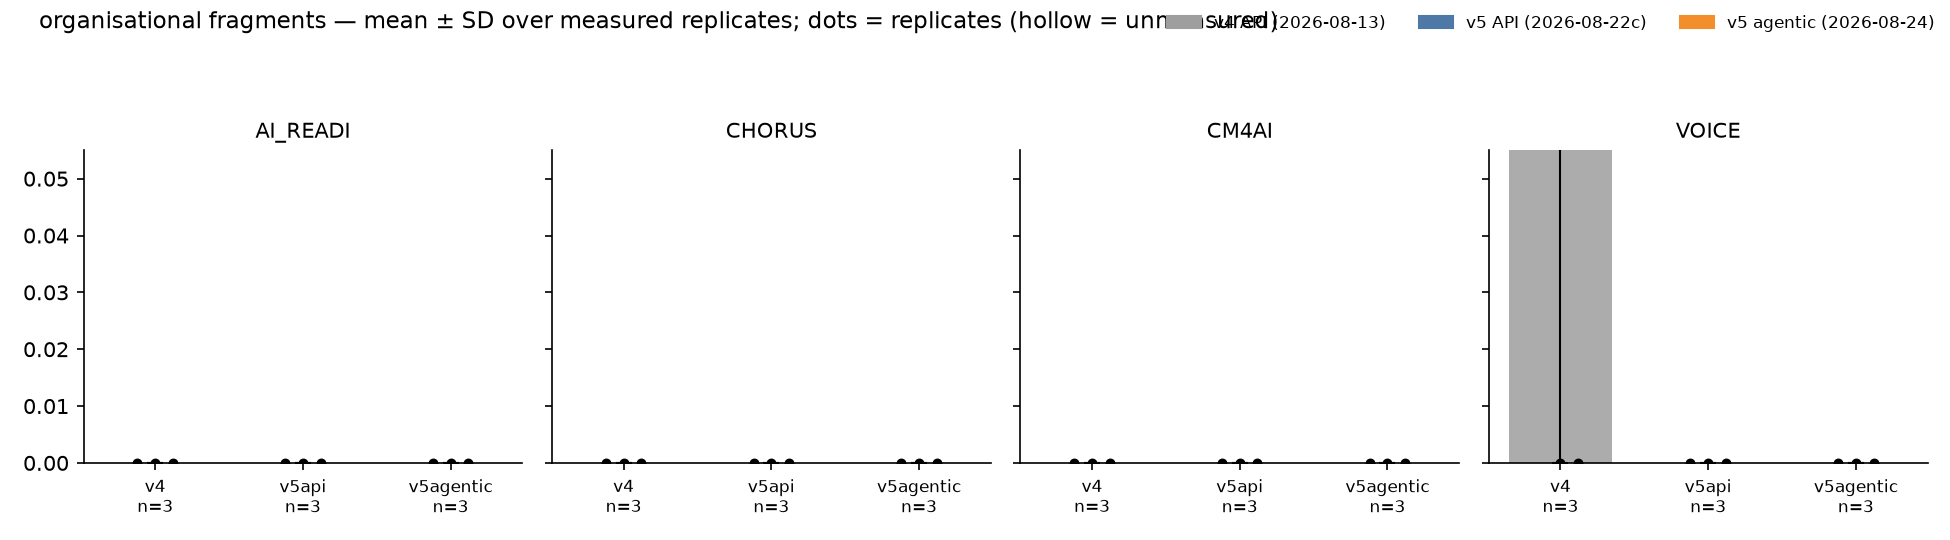
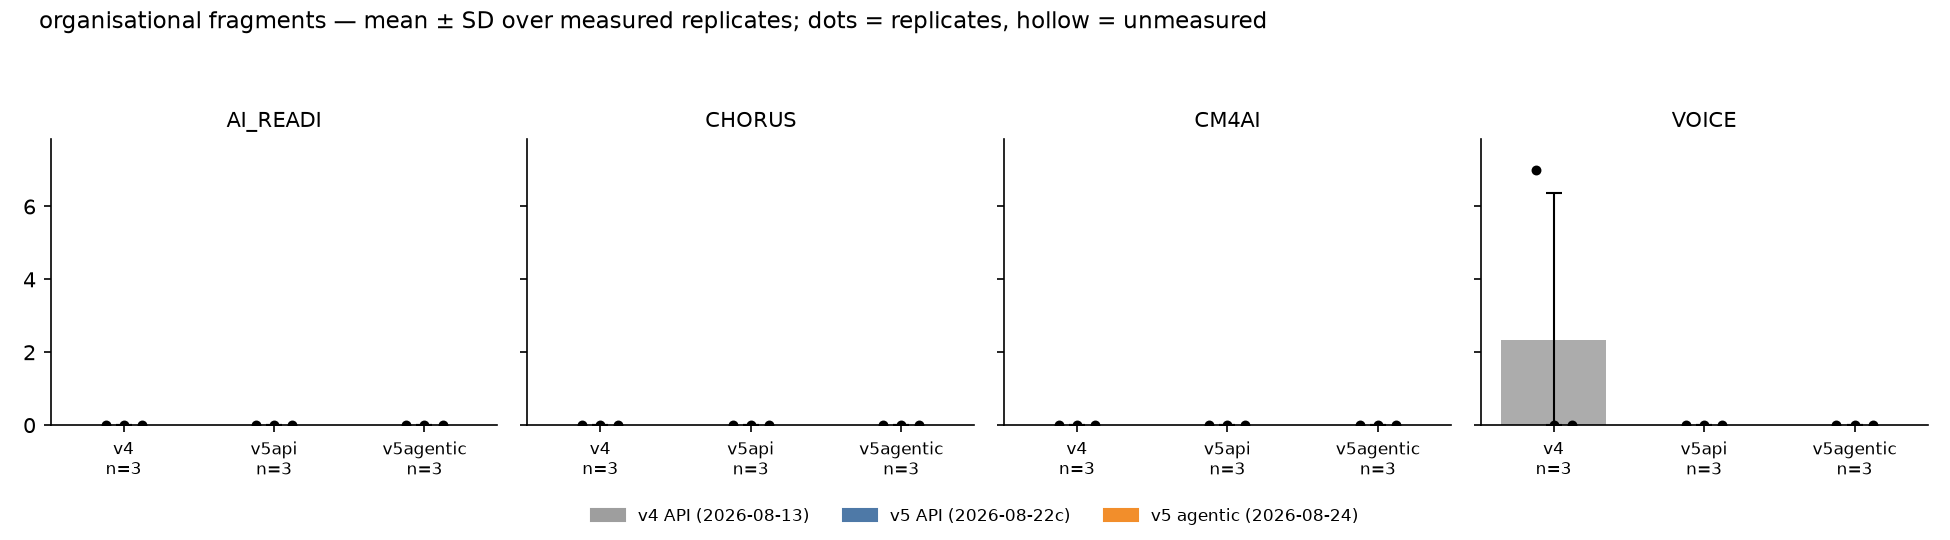
Figures: one shared y-range set after all panels are drawn; legend below the panels

diff --git a/scripts/arm_comparison.py b/scripts/arm_comparison.py
@@ -329,6 +329,7 @@ def write_figures(data, scores) -> None:
     # error bar = sample SD (n printed under the bar). Replicates are dots.
     for mk, (disp, _src, _hiw, _cav) in METRICS.items():
         fig, axes = plt.subplots(1, len(PROJECTS), figsize=(13, 3.6), sharey=True)
+        top = 0.0
         for ax, p in zip(axes, PROJECTS):
             ns: dict[int, int] = {}
             for i, (key, *_rest) in enumerate(ARMS):
@@ -336,6 +337,7 @@ def write_figures(data, scores) -> None:
                 st = stats(reps, mk)
                 if st is not None:
                     mean, sd, n = st
+                    top = max(top, mean + (sd if n > 1 else 0))
                     ax.bar(i, mean, color=colors[key], width=0.7, alpha=0.85)
                     # Counts cannot go below zero; the lower whisker is clipped.
                     # No whisker at all for a single measured replicate.
@@ -350,20 +352,24 @@ def write_figures(data, scores) -> None:
                     if v is None:
                         continue
                     x = i + (j - 1) * 0.12
+                    top = max(top, v)
                     if measured(r, mk):
                         ax.scatter([x], [v], s=14, color="black", zorder=3)
                     else:
                         ax.scatter([x], [v], s=18, facecolors="white", edgecolors="black", zorder=3)
-            ax.set_ylim(bottom=0)
             ax.set_xticks(range(len(ARMS)))
             ax.set_xticklabels([f"{k}\nn={ns[i]}" if i in ns else f"{k}\n–"
                                 for i, (k, *_) in enumerate(ARMS)], fontsize=8)
             ax.set_title(p, fontsize=10)
             ax.spines[["top", "right"]].set_visible(False)
+        # One shared y-range for the row, floored at zero (counts) and sized to
+        # the tallest bar-plus-whisker across all panels — set once, after every
+        # panel is drawn, so no panel's autoscale freezes the top early.
+        axes[0].set_ylim(0, max(1.0, top) * 1.12)
         handles = [plt.Rectangle((0, 0), 1, 1, color=colors[k]) for k, *_ in ARMS]
-        fig.legend(handles, [d for _k, d, *_ in ARMS], loc="upper right", fontsize=8, ncol=3, frameon=False)
-        fig.suptitle(f"{disp} — mean ± SD over measured replicates; dots = replicates (hollow = unmeasured)", x=0.02, ha="left", fontsize=11)
-        fig.tight_layout(rect=(0, 0, 1, 0.9))
+        fig.legend(handles, [d for _k, d, *_ in ARMS], loc="lower center", fontsize=8, ncol=3, frameon=False)
+        fig.suptitle(f"{disp} — mean ± SD over measured replicates; dots = replicates, hollow = unmeasured", x=0.02, ha="left", fontsize=11)
+        fig.tight_layout(rect=(0, 0.07, 1, 0.92))
         out = OUT_FIG / f"arm_comparison_{mk}.png"
         fig.savefig(out, dpi=150); plt.close(fig)
         print(f"wrote {out.relative_to(ROOT)}")
